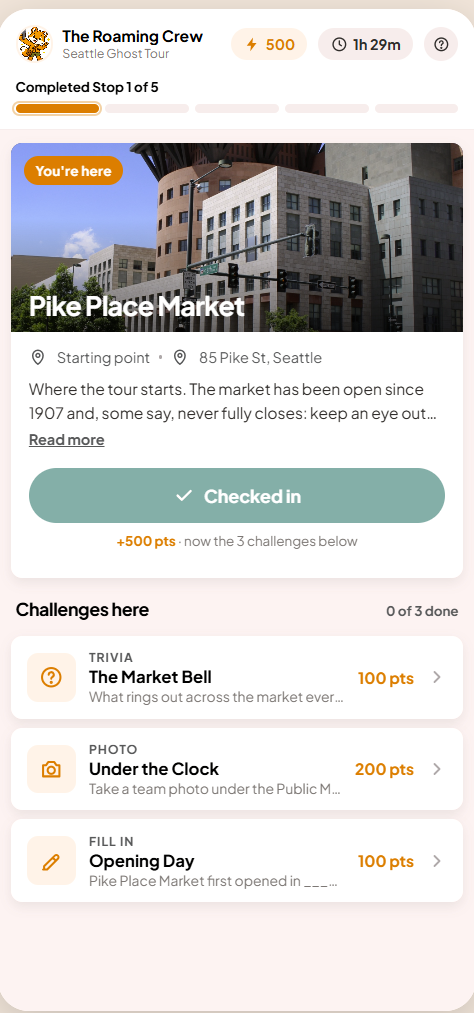
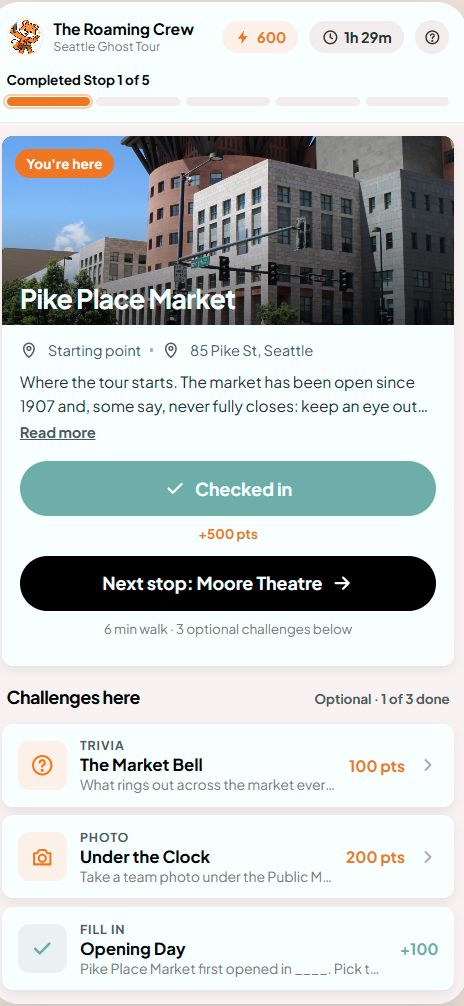
Challenges optional, Next stop after check-in, event wording, year wheel, one try + try again, instant skip
Claude-Session: https://claude.ai/code/session_01HrqVtVYAoSAQxNYo5M8iSv

diff --git a/app.js b/app.js
@@ -10,6 +10,8 @@
   const SCORING = DATA.scoring;
   const STOPS = G.locationList.map((id) => G.locations[id]);
   const IS_TIMED = G.timerLimitMinutes > 0;
+  const EVENT = { ghostTour: "Tour", scavaHunt: "Hunt", barCrawl: "Crawl" }[DATA.group.info.huntType] || "Hunt";
+  const event = EVENT.toLowerCase();
 
   // ---------- state ----------
   const initial = () => ({
@@ -84,9 +86,8 @@
     closeSheet() { if (state.sheet && state.sheet.type === "challenge" && stopResolved(currentStop())) state.anim = "stopdone"; state.sheet = null; },
     select(i) { if (state.sheet && !state.sheet.feedback) state.sheet.selected = i; },
     useHint() {
-      const s = state.sheet; if (!s || s.hint || (s.feedback && !s.feedback.retry)) return;
+      const s = state.sheet; if (!s || s.hint || s.feedback) return;
       s.hint = true;
-      if (s.feedback) { s.feedback = null; s.selected = null; }
     },
     takePhoto() { if (state.sheet) state.sheet.photo = true; },
     submit() {
@@ -98,7 +99,9 @@
         if (s.selected == null) return;
         ok = c.answers[s.selected] === c.correctAnswer;
       } else if (c.type === "text") {
-        const val = normalize(document.getElementById("answer") ? document.getElementById("answer").value : s.input);
+        const wheel = document.getElementById("wheel");
+        if (wheel) s.input = String(Number(wheel.dataset.y0) + Math.round(wheel.scrollTop / 44));
+        const val = c.answerType === "year" ? String(s.input || "") : normalize(document.getElementById("answer") ? document.getElementById("answer").value : s.input);
         s.input = val;
         if (!val) return;
         const accept = (c.accept || [c.correctAnswer]).map(normalize);
@@ -115,20 +118,15 @@
         bumpScore();
       } else {
         s.tries += 1;
-        const left = SCORING.triesPerQuestion - s.tries;
-        if (left > 0) {
-          s.feedback = { kind: "bad", retry: true, text: `Not quite. ${left} ${left === 1 ? "try" : "tries"} left.` };
-        } else {
-          state.results[s.id] = { status: "wrong", points: 0, tries: s.tries, hint: s.hint };
-          s.feedback = { kind: "reveal", points: 0, text: `The answer was "${c.correctAnswer}".` };
-        }
+        state.results[s.id] = { status: "wrong", points: 0, tries: s.tries, hint: s.hint };
+        s.feedback = { kind: "bad", points: 0, text: "Not quite." };
       }
     },
-    retry() { const s = state.sheet; if (s) { s.feedback = null; s.selected = null; } },
+    retry() { const s = state.sheet; if (s) { delete state.results[s.id]; s.feedback = null; s.selected = null; } },
     skipChallenge() {
       const s = state.sheet; if (!s) return;
       state.results[s.id] = { status: "skipped", points: 0, tries: s.tries, hint: s.hint };
-      s.feedback = { kind: "skipped", points: 0, text: "Skipped. No points lost." };
+      A.nextChallenge();
     },
     nextChallenge() {
       const stop = currentStop();
@@ -219,11 +217,16 @@
     const burst = anim === "checkin" ? `<span class="burst" aria-hidden="true">${Array.from({ length: 14 }, (_, i) => `<i style="--a:${Math.round(i * (360 / 14))}deg;--d:${44 + (i % 3) * 14}px;--c:${["#E87722", "#FDD264", "#6AAEAA"][i % 3]}"></i>`).join("")}</span>` : "";
     let button, note;
     if (checked) {
+      const next = nextStop();
       button = `<button class="btn checked ${anim === "checkin" ? "pop" : ""}" disabled>${I.check}Checked in${burst}</button>`;
-      note = `<p class="cta-note"><b class="earned-note ${anim === "checkin" ? "rise" : ""}">+${SCORING.checkIn} pts</b> · now the ${required} challenges below</p>`;
+      note = `<p class="cta-note"><b class="earned-note ${anim === "checkin" ? "rise" : ""}">+${SCORING.checkIn} pts</b></p>
+          <div class="btn-row next-row ${anim === "checkin" ? "rise-in" : ""}">
+            <button class="btn dark" data-action="finishStop">${next ? `Next stop: ${esc(next.name)}` : `Finish ${EVENT}`}${I.arrow}</button>
+          </div>
+          <p class="cta-note">${next ? `${next.walkMinutes} min walk · ` : ""}${required} optional challenges below</p>`;
     } else {
-      button = `<button class="btn primary" data-action="checkIn" ${state.arrived ? "" : "disabled"}>${I.check}Check in</button>`;
-      note = `<p class="cta-note">${state.arrived ? `Check in to unlock ${required} challenges and earn +${SCORING.checkIn} pts` : "Check in turns on when you are within 50 m of the stop."}</p>
+      button = `<button class="btn primary" data-action="checkIn" ${state.arrived ? "" : "disabled"}>${I.check}${state.stopIdx === 0 ? `Check In &amp; Start ${EVENT}` : "Check in"}</button>`;
+      note = `<p class="cta-note">${state.arrived ? `Check in to earn +${SCORING.checkIn} pts and see the challenges here` : "Check in turns on when you are within 50 m of the stop."}</p>
           <p class="cta-note"><button class="linkbtn" data-action="openSkipStop">Closed or can't get there? Skip this stop</button></p>`;
     }
     return `
@@ -275,7 +278,7 @@
       ${viewStopCard(stop, anim)}
       ${complete ? viewStopComplete(stop) : ""}
       <div class="challenges ${anim === "checkin" ? "slide-in" : ""}">
-        <div class="section-head"><h3>Challenges here</h3><span class="count">${doneCount} of ${required.length} done</span></div>
+        <div class="section-head"><h3>Challenges here</h3><span class="count">Optional · ${doneCount} of ${required.length} done</span></div>
         ${list.map(viewChallengeRow).join("")}
         <div class="spacer-bottom"></div>
       </div>`;
@@ -296,7 +299,7 @@
               <div><div class="k">Next stop</div><div class="n">${esc(next.name)}</div><div class="w">${next.walkMinutes} min walk · ${next.walkMiles} mi</div></div>
             </div>
             <div class="btn-row"><button class="btn primary" data-action="finishStop">Let's go${I.arrow}</button></div>`
-            : `<div class="btn-row"><button class="btn primary" data-action="finishStop">Finish the hunt${I.arrow}</button></div>`}
+            : `<div class="btn-row"><button class="btn primary" data-action="finishStop">Finish the ${event}${I.arrow}</button></div>`}
         </div>
       </section>`;
   }
@@ -309,7 +312,7 @@
       <section class="card">
         <div class="celebrate">
           <img src="./assets/img/fox-star.png" alt="">
-          <h2>You survived the ghost tour</h2>
+          <h2>${EVENT} complete!</h2>
           <p class="earned">Final score <b>${fmtPts(state.score)}</b></p>
           <div class="summary">
             <div><b>${STOPS.filter((s) => state.stopStatus[s.locationId] === "done").length}/${STOPS.length}</b><span>Stops</span></div>
@@ -338,7 +341,7 @@
     const list = challengesOf(stop).filter((x) => !x.optional);
     const idx = list.findIndex((x) => x.challengeId === s.id);
     const fb = s.feedback;
-    const locked = !!fb && !fb.retry;
+    const locked = !!fb;
     let control = "";
     if (c.type === "multiple_choice") {
       control = `<div class="choices" role="radiogroup">${c.answers.map((a, i) => {
@@ -346,6 +349,10 @@
         if (locked) { if (a === c.correctAnswer) cls = "correct"; else if (s.selected === i) cls = "wrong"; }
         return `<button class="choice ${cls}" role="radio" aria-checked="${s.selected === i}" data-action="select" data-i="${i}" ${locked ? "disabled" : ""}><span class="radio"></span>${esc(a)}</button>`;
       }).join("")}</div>`;
+    } else if (c.type === "text" && c.answerType === "year") {
+      const [y0, y1] = SCORING.yearRange;
+      const years = []; for (let y = y0; y <= y1; y++) years.push(y);
+      control = `<div class="wheel-wrap ${fb && fb.kind === "bad" ? "wrong" : ""}"><div class="wheel-band"></div><div class="wheel" id="wheel" data-y0="${y0}" ${locked ? 'data-locked="1"' : ""} tabindex="0" aria-label="Pick a year">${years.map((y) => `<div class="${String(y) === String(s.input) ? "on" : ""}">${y}</div>`).join("")}</div></div>`;
     } else if (c.type === "text") {
       control = `<input id="answer" class="textinput ${fb && fb.kind === "bad" ? "wrong" : ""}" type="text" autocomplete="off" placeholder="Type your answer" value="${esc(s.input)}" ${locked ? "disabled" : ""} enterkeyhint="done">`;
     } else {
@@ -355,7 +362,7 @@
     }
     let feedback = "";
     if (fb) {
-      const cls = fb.kind === "ok" ? "ok" : fb.kind === "bad" || fb.kind === "reveal" ? "bad" : "neutral";
+      const cls = fb.kind === "ok" ? "ok" : fb.kind === "bad" ? "bad" : "neutral";
       const icon = fb.kind === "ok" ? I.check : fb.kind === "skipped" ? I.flag : I.x;
       feedback = `<div class="feedback ${cls}" role="status">${icon}<span>${esc(fb.text)}</span>${fb.points != null ? `<span class="pts">${fb.points > 0 ? "+" : ""}${fb.points}</span>` : ""}</div>`;
     }
@@ -367,13 +374,11 @@
           ${c.hint && !s.hint ? `<button class="linkbtn" data-action="useHint">${I.bulb.replace("<svg", '<svg style="width:16px;height:16px;vertical-align:-3px"')} Use a hint (−${SCORING.hintCost} pts)</button>` : "<span></span>"}
           <button class="linkbtn" data-action="skipChallenge">Skip this one</button>
         </div>`;
-    } else if (fb.retry) {
-      actions = `<button class="btn primary" data-action="retry">Try again</button>
-        <div class="helper">${c.hint && !s.hint ? `<button class="linkbtn" data-action="useHint">Use a hint (−${SCORING.hintCost} pts)</button>` : "<span></span>"}<button class="linkbtn" data-action="skipChallenge">Skip this one</button></div>`;
     } else {
-      actions = hasNext
+      actions = (hasNext
         ? `<button class="btn primary" data-action="nextChallenge">Next challenge${I.arrow}</button>`
-        : `<button class="btn primary" data-action="closeSheet">Done</button>`;
+        : `<button class="btn primary" data-action="closeSheet">Done</button>`)
+        + (fb.kind === "bad" ? `<div class="helper" style="justify-content:center"><button class="btn ghost sm" data-action="retry">Try again</button></div>` : "");
     }
     return `
       <div class="sheet-head">
@@ -395,7 +400,7 @@
       <div class="sheet-head"><span class="kind">How points work</span><button class="iconbtn" data-action="closeSheet" aria-label="Close">${I.x}</button></div>
       <div class="sheet-body">
         <ul class="rules">${SCORING.rules.map(([k, v]) => `<li><span>${esc(k)}</span><b class="${v.startsWith("-") || v.startsWith("0") ? "neg" : ""}">${esc(v)}</b></li>`).join("")}</ul>
-        <p class="lore">Stops go in order. You can skip any challenge, or a whole stop if it is closed. Nothing you skip costs points.</p>
+        <p class="lore">Stops go in order. Checking in is what moves the ${event} forward; the challenges at each stop are optional extras. You can skip any challenge, or a whole stop if it is closed. Nothing you skip costs points.</p>
         <div class="help-actions">
           <button class="btn secondary" data-action="openSkipStop">${I.flag}This stop is closed</button>
           <button class="btn ghost" data-action="support">${I.help}Chat with support</button>
@@ -409,7 +414,7 @@
       <div class="sheet-head"><span class="kind">Skip this stop</span><button class="iconbtn" data-action="closeSheet" aria-label="Close">${I.x}</button></div>
       <div class="sheet-body">
         <h2>Skip ${esc(stop.name)}?</h2>
-        <p class="lore" style="margin-top:0">You keep every point you have earned. ${next ? `The next stop is <b>${esc(next.name)}</b>, ${next.walkMinutes} min away.` : "This is the last stop, so skipping it ends the hunt."}</p>
+        <p class="lore" style="margin-top:0">You keep every point you have earned. ${next ? `The next stop is <b>${esc(next.name)}</b>, ${next.walkMinutes} min away.` : `This is the last stop, so skipping it ends the ${event}.`}</p>
         <div class="actions">
           <button class="btn dark" data-action="skipStop">${I.flag}Skip and move on</button>
           <button class="btn ghost" data-action="closeSheet">Keep going here</button>
@@ -475,6 +480,23 @@
     if (anim === "checkin") setTimeout(() => { const el = root.querySelector(".challenges"); if (el) el.scrollIntoView({ behavior: "smooth", block: "start" }); }, 900);
     if (anim === "stopdone") setTimeout(() => { const el = root.querySelector(".celebrate"); if (el) el.scrollIntoView({ behavior: "smooth", block: "center" }); }, 150);
     const input = root.querySelector("#answer"); if (input && !input.disabled && state.sheet && !state.sheet.feedback) input.focus({ preventScroll: true });
+    const wheel = root.querySelector("#wheel");
+    if (wheel) {
+      const y0 = Number(wheel.dataset.y0); const h = 44;
+      const st = state.sheet;
+      const start = Number(st.input) || 1900;
+      wheel.scrollTop = (start - y0) * h;
+      if (!st.input) st.input = String(start);
+      const cur = wheel.children[start - y0]; if (cur) cur.classList.add("on");
+      if (!wheel.dataset.locked) {
+        let t = null;
+        wheel.addEventListener("scroll", () => {
+          const idx = Math.round(wheel.scrollTop / h);
+          const y = y0 + idx;
+          if (String(y) !== st.input) { st.input = String(y); wheel.querySelectorAll(".on").forEach((el) => el.classList.remove("on")); const el = wheel.children[idx]; if (el) el.classList.add("on"); }
+        }, { passive: true });
+      }
+    }
     updateDemoBar();
   }
 

diff --git a/review-v3.html b/review-v3.html
@@ -72,7 +72,7 @@
     <h2>What this screen needs to communicate</h2>
     <div class="needs">
       <div class="need"><p class="big">Where do we go next?</p><p>The name of the next stop, a picture of it, and <b>how long the walk is</b>. Not "2.87 mi". "6 min walk".</p></div>
-      <div class="need"><p class="big">What do we do when we get there?</p><p><b>Check in, then do these three things.</b> Shown as a short list with a word for each: Trivia, Photo, Fill in. Not a colour code.</p></div>
+      <div class="need"><p class="big">What do we do when we get there?</p><p><b>Check in. That is the job.</b> Then the next stop is one tap away, and the challenges at this stop are optional extras, each with a word for what it is: Trivia, Photo, Fill in.</p></div>
       <div class="need"><p class="big">Are we doing OK?</p><p><b>"On Stop 2 of 5"</b> and a score. That is enough. Rank, rings, timers and breakdowns can wait for the end.</p></div>
       <div class="need"><p class="big">What if we're stuck?</p><p>A gate is locked, a question is too hard, the GPS is wrong. <b>There is always a way forward</b> and it never costs the team anything.</p></div>
     </div>
@@ -89,7 +89,7 @@
       <div class="p"><span class="n">4</span><div><h3>Nothing you can't control can cost you</h3><p>No GPS-accuracy score, no speed bonus, no countdown as the biggest number on screen. Groups that are enjoying the tour should not be punished for taking their time.</p></div></div>
       <div class="p"><span class="n">5</span><div><h3>Say it in words</h3><p>Labels beat colour codes and mystery icons. Plain English beats game jargon. "Check in turns on when you are within 50 m" instead of a greyed-out button and a guess.</p></div></div>
       <div class="p"><span class="n">6</span><div><h3>One layer deep</h3><p>The main screen is home. At most one sheet slides over it, and closing it always lands you back where you were. No modal on a sheet on a modal.</p></div></div>
-      <div class="p"><span class="n">7</span><div><h3>Checking in is the win</h3><p>Arriving is the accomplishment, so the check-in itself gets the celebration: the button pops, confetti, the points land, and the challenges slide up from the same card. The place and its challenges stay one thing.</p></div></div>
+      <div class="p"><span class="n">7</span><div><h3>Checking in is the win</h3><p>Arriving is the accomplishment, so the check-in itself gets the celebration: the button pops, confetti, the points land, and "Next stop" appears right there. Challenges are optional extras that slide up under the same card, so a group can always keep moving.</p></div></div>
       <div class="p"><span class="n">8</span><div><h3>Use the brand as given</h3><p>One typeface, one orange, one icon style, the fox. No emoji, no fourth font. Consistency reads as "finished", and finished reads as trustworthy.</p></div></div>
     </div>
   </section>
@@ -125,9 +125,9 @@
           <p class="k">What changed</p>
           <ul>
             <li>Same card, button turns "Checked in"<small>with a burst, the way a like button rewards you</small></li>
+            <li>"Next stop" appears right there<small>challenges are optional, the tour keeps moving</small></li>
             <li>Challenges slide up under it<small>so they read as part of this place</small></li>
-            <li>Word labels: Trivia, Photo, Fill in<small>no colour code to decode</small></li>
-            <li>Points and a done state per row</li>
+            <li>Word labels: Trivia, Photo, Fill in<small>year questions get a wheel, wrong answers get one try and a small "Try again"</small></li>
             <li>No third sheet, no chips<small>"Completed Stop 1 of 5" up top</small></li>
           </ul>
         </div>

diff --git a/hunt-data.js b/hunt-data.js
@@ -6,7 +6,7 @@ window.HUNT_DATA = {
     info: {
       groupId: "offline-demo",
       teamName: "The Roaming Crew",
-      huntType: "ghostTour",
+      huntType: "ghostTour",        // ghostTour | scavaHunt | barCrawl -> the app says Tour / Hunt / Crawl
       score: 0,
       groupPhoto: "./assets/img/team-photo.webp",
       huntStarted: true,
@@ -90,7 +90,8 @@ window.HUNT_DATA = {
       },
       "pike-year": {
         challengeId: "pike-year", locationId: "pike", type: "text", name: "Opening Day",
-        question: "Pike Place Market first opened in ____. Guess the year.",
+        question: "Pike Place Market first opened in ____. Pick the year.",
+        answerType: "year",                 // NEW: renders a year wheel instead of a text box
         correctAnswer: "1907", hint: "It is older than the theatre at the next stop.", points: 100
       },
       // Moore Theatre
@@ -133,7 +134,8 @@ window.HUNT_DATA = {
       // Post Alley
       "pa-gum": {
         challengeId: "pa-gum", locationId: "postalley", type: "text", name: "Sticky Situation",
-        question: "The Gum Wall was declared a tourist attraction in ____. Guess the year.",
+        question: "The Gum Wall was declared a tourist attraction in ____. Pick the year.",
+        answerType: "year",
         correctAnswer: "1999", hint: "Just before the millennium.", points: 100
       },
       "pa-pub": {
@@ -169,14 +171,14 @@ window.HUNT_DATA = {
   scoring: {
     checkIn: 500,
     hintCost: 25,
-    triesPerQuestion: 2,
+    yearRange: [1850, 2026],
     rules: [
       ["Check in at a stop", "+500"],
       ["Trivia or fill-in question", "+100"],
       ["Photo challenge", "+200"],
       ["Bonus photo (optional)", "+500"],
       ["Use a hint", "-25"],
-      ["Skip a challenge", "0, no penalty"],
+      ["Skip or miss a challenge", "0, no penalty"],
       ["Skip a closed stop", "check-in points kept"]
     ]
   }

diff --git a/styles.css b/styles.css
@@ -278,6 +278,16 @@ img { display: block; max-width: 100%; }
 .textinput:focus { border-color: var(--lr-orange); box-shadow: 0 0 0 4px rgba(232,119,34,.26); }
 .textinput.wrong { border-color: var(--lr-red); animation: shake 300ms; }
 @keyframes shake { 25% { transform: translateX(-4px); } 75% { transform: translateX(4px); } }
+.wheel-wrap { position: relative; height: 176px; border-radius: var(--radius-less); background: var(--lr-white-1); overflow: hidden; border: 2px solid transparent; }
+.wheel-wrap.wrong { border-color: var(--lr-red); }
+.wheel-band { position: absolute; left: 10px; right: 10px; top: 66px; height: 44px; border-radius: 10px; background: var(--lr-off-orange); border: 2px solid var(--lr-orange); pointer-events: none; }
+.wheel { position: absolute; inset: 0; overflow-y: auto; scroll-snap-type: y mandatory; padding: 66px 0; scrollbar-width: none; -webkit-mask-image: linear-gradient(transparent, #000 35%, #000 65%, transparent); mask-image: linear-gradient(transparent, #000 35%, #000 65%, transparent); }
+.wheel::-webkit-scrollbar { display: none; }
+.wheel > div { height: 44px; scroll-snap-align: center; display: grid; place-items: center; font-size: 22px; font-weight: 600; color: var(--lr-gray-2); }
+.wheel > div.on { color: var(--lr-black); font-weight: 800; }
+.wheel[data-locked] { pointer-events: none; }
+.next-row { margin-top: 8px; }
+.next-row.rise-in { animation: risein 500ms 350ms ease both; }
 .photo-drop {
   display: grid; place-items: center; gap: 6px; padding: 22px; border-radius: var(--radius-less);
   border: 2px dashed var(--lr-gray-1); background: var(--lr-white-1); text-align: center; color: var(--lr-gray-3); font-weight: 600; font-size: 14px;

diff --git a/README.md b/README.md
@@ -39,10 +39,12 @@ stands in for the GPS: **Simulate GPS: arrive**. In the app that event comes fro
    Check in button that is disabled until you arrive, with the reason written under it. "Skip this stop" is always
    there for closed locations.
 2. **Check in.** Flat +500. The card stays put: the button pops into a teal "Checked in" with a burst of confetti, the
-   points land under it, and the challenges slide up from below so they read as part of this place. Each has a word
-   label (Trivia, Photo, Fill in), points and state.
-3. **Challenges.** One bottom sheet, never stacked. Multiple choice, fill-in and photo. Two tries, a hint that costs
-   25 points, a free skip, then the answer is revealed and "Next challenge" moves on inside the same sheet.
+   points land under it, and a "Next stop" button appears right there. On the first stop the button reads
+   "Check In & Start Tour". The wording (Tour / Hunt / Crawl) follows the event type in the data.
+3. **Challenges.** Optional extras that slide up under the stop card, each with a word label (Trivia, Photo, Fill
+   in), points and state. One bottom sheet, never stacked. Multiple choice, a year wheel for year questions, text,
+   and photo. One try, then "Next challenge" with a small "Try again" if you want it. A hint costs 25 points. Skip
+   goes straight to the next one.
 4. **Stop done.** A celebration card with the points earned, the fox, the next stop and its walk time, and
    "Let's go". This is the transition the current design leaves empty.
 5. **Map.** Route with numbered stops, done / current states and your position. Stylised, not real tiles.
